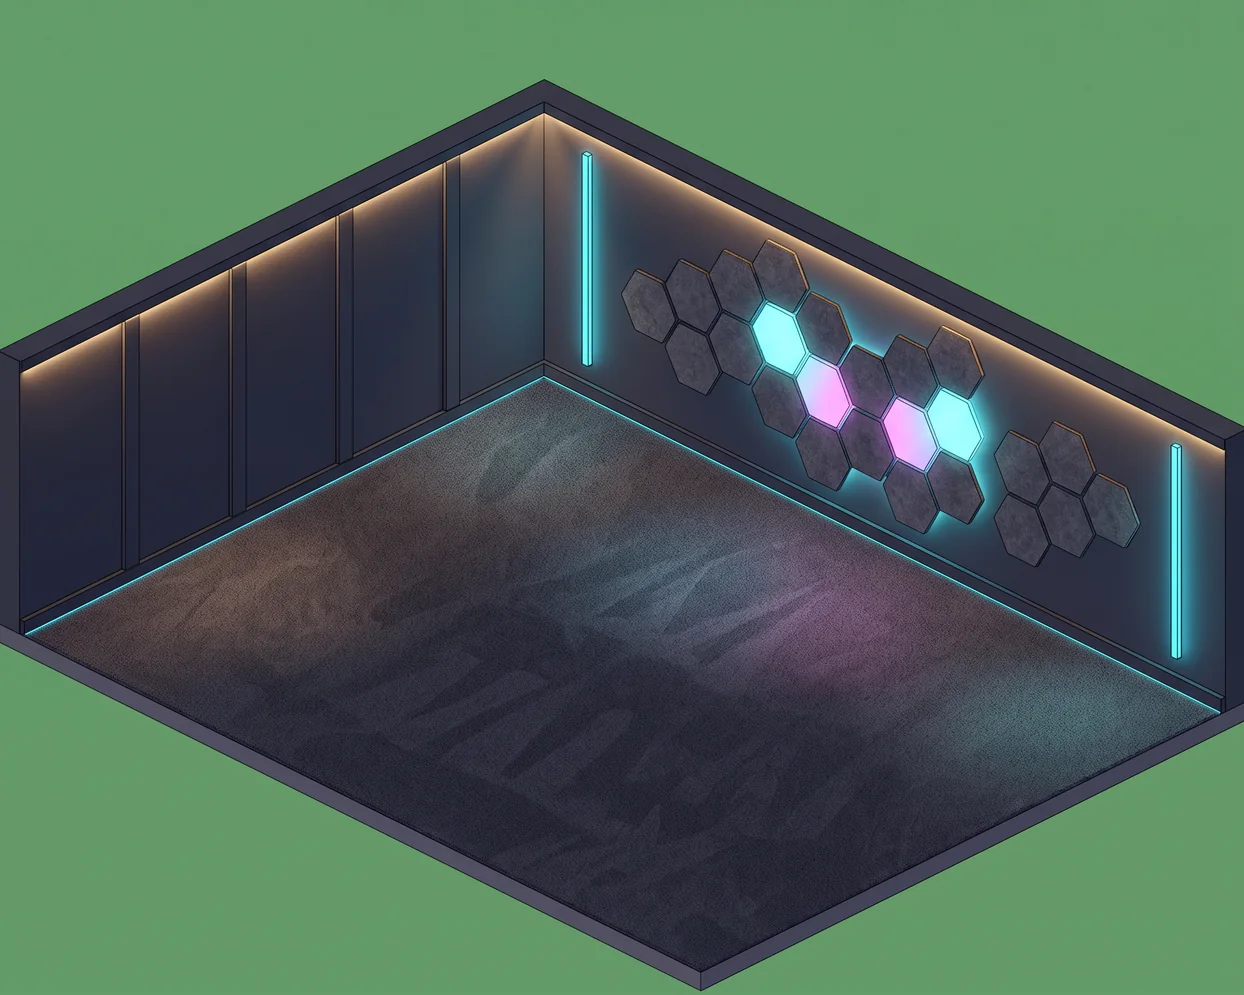
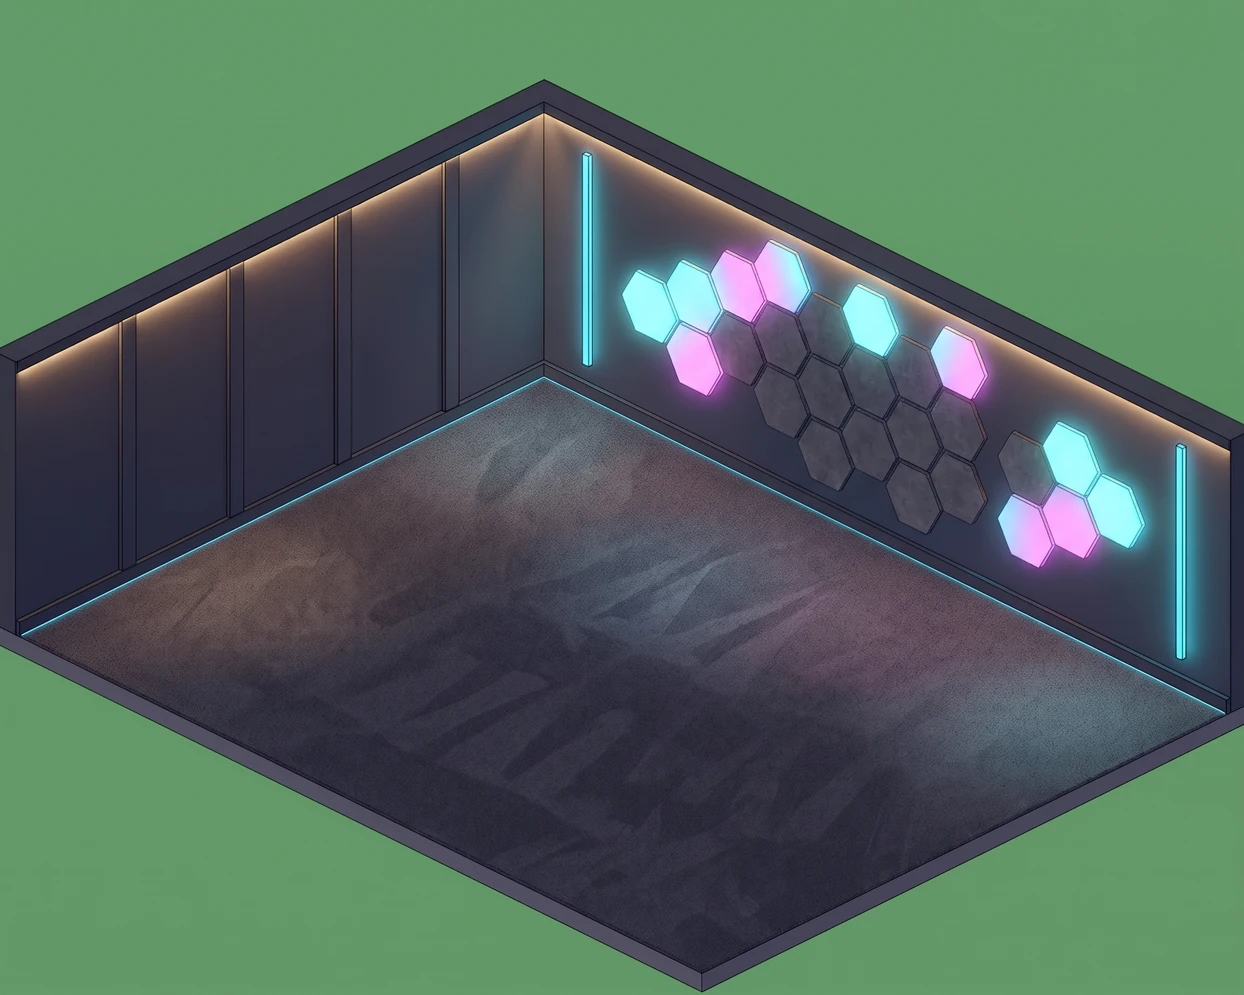
Game Room (Cal): the outer hex panels glow so the TV no longer hides the lit ones; the foosball table moves to the front, the ping pong table clear of the doorway
gmw_t4 repainted: the middle hexes are plain felt and the outer ones (left, top, right) glow, framing both the Big TV and
the 80 inch screen. The room is 13 x 10, so 685cbd0's ping pong spot ran off the edge over the doorway at 12.1,5.4; it
now stands past the sectional, a tile off the snack corner. The foosball table goes to the front right so the arcade
keeps its corner.

diff --git a/quest-board/app/src/27b_skins.js b/quest-board/app/src/27b_skins.js
@@ -79,9 +79,9 @@ var GMR={name:"Game Room",lv:18,startLv:18,step:1,wall:"#27304c",wain:"#1a2138",
   PL("gm_rug","Round Rug",UP_S,"gmx_rug",4.75,.95,2.9,2.9,0,"A round rug with a teal pattern under the couch.",{o:{dk:9}}),
   PL("gm_games","Game Shelf",UP_S,"gmx_games",5.6,.15,2.2,.8,0,"Every console you ever owned."),
   PL("gm_pool","Pool Table",UP_M,"gmx_pool",4.85,7.65,3.2,2.1,1,"Felt and chalk.",{cust:[[6.45,7.15,-1],[4.3,8.7,1]]}),/* a clear ring round it: off the beanbags, a tile from the ping pong table */
-  PL("gm_ping","Ping Pong Table",UP_M,"gmx_ping",10.4,3.7,3.0,1.9,1,"A blue table, two paddles and a net clamp.",{cust:[[9.85,4.65,1],[13.95,4.65,1,GMB]]}),/* QA: its own open floor where the gaming desks stood, clear of the pool table and the doormat */
+  PL("gm_ping","Ping Pong Table",UP_M,"gmx_ping",9.0,2.0,3.0,1.9,1,"A blue table, two paddles and a net clamp.",{cust:[[8.45,2.95,1],[12.4,2.95,-1,GMB]]}),/* QA: its own open floor (the room is 13 x 10): past the sectional, a tile off the snack corner, clear of the doorway at 12.1,5.4 */
   PL("gm_arc","Green Arcade Cabinet",UP_M,"gmx_arc2",.4,.3,1.1,1.1,0,"A green upright with a joystick and two buttons.",{cust:[[.95,2.1,1,GMB]]}),
-  PL("gm_foos","Foosball",UP_M,"gmx_foos",1.0,2.95,1.3,2.0,0,"Wooden table, eleven rods, a cork ball.",{cust:[[.5,3.95,1],[2.8,3.95,-1,GMB]]}),/* Cal: it stood right in front of the arcade; now a clear tile and a half, room for the arcade player */
+  PL("gm_foos","Foosball",UP_M,"gmx_foos",10.0,6.9,1.3,2.0,0,"Wooden table, eleven rods, a cork ball.",{cust:[[9.5,7.9,1],[11.8,7.9,-1,GMB]]}),/* Cal: down toward the front so the arcade has its corner; clear of the pool table and the doorway */
   PL("gm_vend","Soda Machine",UP_S,"gmx_vend",11.6,.2,1.0,.9,0,"A red vending machine, lit from inside.",{cust:[[12.1,1.8,1,GMB]]}),
   PL("gm_neon","LED Wall Panels",UP_S,"gmx_led",.05,2.4,.1,2.0,1,"A cluster of hexagon lights in blue and violet.",{o:{dy:-62,h:1,nosh:1,nob:1,dk:30}}),
   PL("gm_dart","Dartboard",UP_S,"gmx_dart",2.3,.05,1.1,.2,0,"A cork board in a wooden cabinet, three darts.",{o:{dy:-40,h:1,nob:1,nosh:1,dk:30},cust:[[2.85,2.5,1,GMB]]}),
